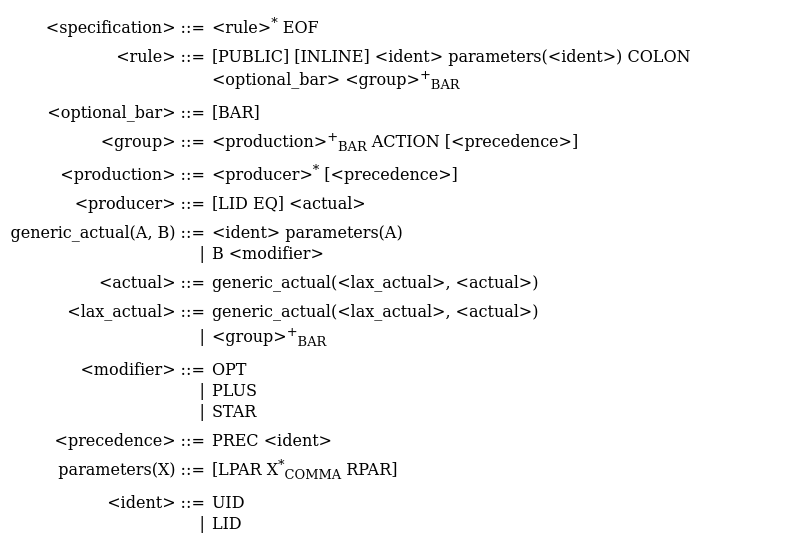
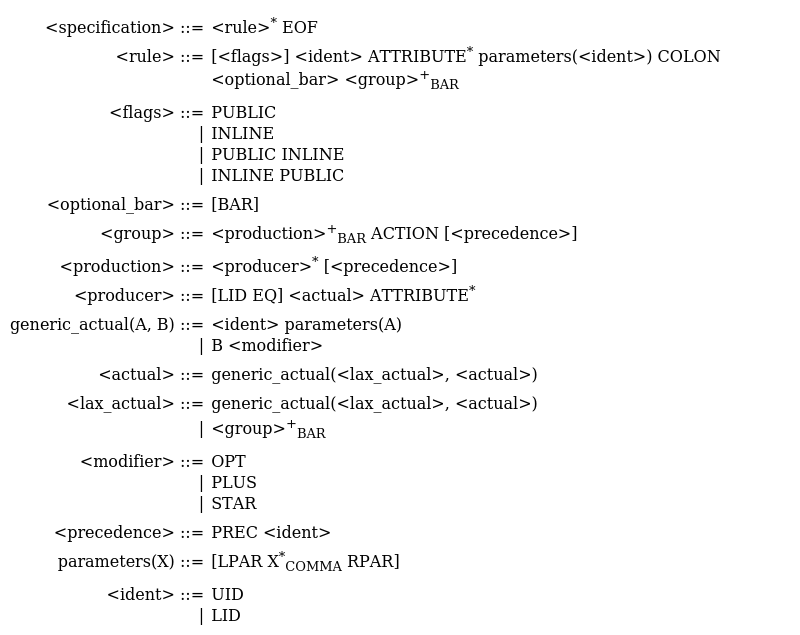
Multiple input files

Changed region(s): [[0.0, 0.0295, 0.9062, 1.0], [0.4688, 0.2357, 0.7188, 0.2947], [0.375, 0.6777, 0.4062, 0.7072]]

diff --git a/docs/code_Main.html b/docs/code_Main.html
@@ -32,16 +32,20 @@
 <code class="code"></code><table><tr><td></td><td><span class="comment">(** The main driver of the application.
 <p>
 
-    Once parsed, the grammar is scanned (<code class="code"><span class="constructor">Scan</span></code>) to get back the symbols then
+    Once parsed the grammars are concatenated into one.
+<p>
+
+    The resulting grammar is scanned (<code class="code"><span class="constructor">Scan</span></code>) to get back the symbols then
     normalized (<code class="code"><span class="constructor">Normalize</span></code>) and transformed (<code class="code"><span class="constructor">Transform</span></code>) to a simpler form.
     Finally, after an optional pass of pattern-recognition (<code class="code"><span class="constructor">Reduce</span></code>) it is
     printed (<code class="code"><span class="constructor">Printers</span></code>).  *)</span></td></tr></table><code class="code"><br>
 <br>
+<span class="keyword">open</span>&nbsp;<span class="constructor">List</span><br>
 <span class="keyword">open</span>&nbsp;<span class="constructor">Position</span><br>
 <span class="keyword">open</span>&nbsp;<span class="constructor">Format</span><br>
 <br>
-</code><table><tr><td></td><td><span class="comment">(** The input file.*)</span></td></tr></table><code class="code"><br>
-<span class="keyword">let</span>&nbsp;ifile&nbsp;=&nbsp;ref&nbsp;<span class="string">""</span><br>
+</code><table><tr><td></td><td><span class="comment">(** The input files.*)</span></td></tr></table><code class="code"><br>
+<span class="keyword">let</span>&nbsp;ifiles&nbsp;=&nbsp;ref&nbsp;[]<br>
 </code><table><tr><td></td><td><span class="comment">(** The output file. *)</span></td></tr></table><code class="code"><br>
 <span class="keyword">let</span>&nbsp;ofile&nbsp;=&nbsp;ref&nbsp;<span class="string">""</span><br>
 <br>
@@ -61,9 +65,6 @@
 <span class="keyword">let</span>&nbsp;mode&nbsp;=&nbsp;ref&nbsp;<span class="constructor">Default</span><br>
 </code><table><tr><td></td><td><span class="comment">(** Do we inline inferred patterns ? <code class="code"><span class="keyword">false</span></code> by default. *)</span></td></tr></table><code class="code"><br>
 <span class="keyword">let</span>&nbsp;inline&nbsp;=&nbsp;ref&nbsp;<span class="keyword">false</span><br>
-<br>
-</code><table><tr><td></td><td><span class="comment">(** Specify the filenames of <code class="code">ifile</code> and <code class="code">ofile</code>. *)</span></td></tr></table><code class="code"><br>
-<span class="keyword">let</span>&nbsp;set_file&nbsp;f&nbsp;s&nbsp;=&nbsp;f&nbsp;:=&nbsp;s<br>
 <br>
 </code><table><tr><td></td><td><span class="comment">(** Default common command-line options. *)</span></td></tr></table><code class="code"><br>
 <span class="keyword">let</span>&nbsp;options&nbsp;=&nbsp;ref&nbsp;(<span class="constructor">Arg</span>.align&nbsp;[<br>
@@ -98,17 +99,15 @@
 &nbsp;&nbsp;&nbsp;&nbsp;options&nbsp;:=&nbsp;<span class="constructor">Arg</span>.align&nbsp;!options<br>
 <br>
 &nbsp;&nbsp;<span class="keywordsign">|</span>&nbsp;f&nbsp;<span class="keywordsign">-&gt;</span><br>
-&nbsp;&nbsp;&nbsp;&nbsp;set_file&nbsp;ifile&nbsp;f<br>
+&nbsp;&nbsp;&nbsp;&nbsp;ifiles&nbsp;:=&nbsp;f&nbsp;::&nbsp;!ifiles<br>
 <br>
-</code><table><tr><td></td><td><span class="comment">(** @return the lexer buffer, a printer chosen from the according passed options
-    and a function to finally close the input channel.*)</span></td></tr></table><code class="code"><br>
+</code><table><tr><td></td><td><span class="comment">(** @return the lexer buffers, a printer chosen from the according passed
+    options and a function to finally close the input and output channels.*)</span></td></tr></table><code class="code"><br>
 <span class="keyword">let</span>&nbsp;get&nbsp;()&nbsp;=<br>
 &nbsp;&nbsp;<span class="constructor">Arg</span>.parse_dynamic&nbsp;options&nbsp;parse_cmd&nbsp;msg;<br>
 &nbsp;&nbsp;<span class="keyword">try</span><br>
-&nbsp;&nbsp;&nbsp;&nbsp;<span class="keyword">if</span>&nbsp;!ifile&nbsp;=&nbsp;<span class="string">""</span>&nbsp;<span class="keyword">then</span>&nbsp;(<span class="constructor">Arg</span>.usage&nbsp;!options&nbsp;msg;&nbsp;exit&nbsp;1);<br>
-&nbsp;&nbsp;&nbsp;&nbsp;<span class="keyword">let</span>&nbsp;inf&nbsp;=&nbsp;open_in&nbsp;!ifile&nbsp;<span class="keyword">in</span><br>
+&nbsp;&nbsp;&nbsp;&nbsp;<span class="keyword">if</span>&nbsp;!ifiles&nbsp;=&nbsp;[]&nbsp;<span class="keyword">then</span>&nbsp;(<span class="constructor">Arg</span>.usage&nbsp;!options&nbsp;msg;&nbsp;exit&nbsp;1);<br>
 &nbsp;&nbsp;&nbsp;&nbsp;<span class="keyword">let</span>&nbsp;outf&nbsp;=&nbsp;<span class="keyword">if</span>&nbsp;!ofile&nbsp;=&nbsp;<span class="string">""</span>&nbsp;<span class="keyword">then</span>&nbsp;stdout&nbsp;<span class="keyword">else</span>&nbsp;open_out&nbsp;!ofile&nbsp;<span class="keyword">in</span><br>
-&nbsp;&nbsp;&nbsp;&nbsp;<span class="keyword">let</span>&nbsp;lexbuf&nbsp;=&nbsp;<span class="constructor">Lexing</span>.from_channel&nbsp;inf&nbsp;<span class="keyword">in</span><br>
 &nbsp;&nbsp;&nbsp;&nbsp;<span class="keyword">let</span>&nbsp;formatter&nbsp;=&nbsp;formatter_of_out_channel&nbsp;outf&nbsp;<span class="keyword">in</span><br>
 &nbsp;&nbsp;&nbsp;&nbsp;<span class="keyword">let</span>&nbsp;p&nbsp;=&nbsp;<span class="keyword">match</span>&nbsp;!mode&nbsp;<span class="keyword">with</span><br>
 &nbsp;&nbsp;&nbsp;&nbsp;&nbsp;&nbsp;<span class="keywordsign">|</span>&nbsp;<span class="constructor">Default</span>&nbsp;<span class="keywordsign">-&gt;</span>&nbsp;(<span class="keyword">module</span>&nbsp;<span class="constructor">Printers</span>.<span class="constructor">Default</span>&nbsp;:&nbsp;<span class="constructor">GenericPrinter</span>.<span class="constructor">PRINTER</span>)<br>
@@ -119,16 +118,32 @@
 &nbsp;&nbsp;&nbsp;&nbsp;<span class="keyword">in</span><br>
 &nbsp;&nbsp;&nbsp;&nbsp;<span class="keyword">let</span>&nbsp;<span class="keyword">module</span>&nbsp;<span class="constructor">P</span>&nbsp;=&nbsp;(<span class="keyword">val</span>&nbsp;p:&nbsp;<span class="constructor">GenericPrinter</span>.<span class="constructor">PRINTER</span>)&nbsp;<span class="keyword">in</span><br>
 &nbsp;&nbsp;&nbsp;&nbsp;<span class="keyword">let</span>&nbsp;print&nbsp;=&nbsp;<span class="constructor">P</span>.print_spec&nbsp;formatter&nbsp;<span class="keyword">in</span><br>
-&nbsp;&nbsp;&nbsp;&nbsp;<span class="keyword">let</span>&nbsp;close&nbsp;()&nbsp;=&nbsp;close_in&nbsp;inf;&nbsp;close_out&nbsp;outf&nbsp;<span class="keyword">in</span><br>
-&nbsp;&nbsp;&nbsp;&nbsp;lexbuf,&nbsp;print,&nbsp;close<br>
+&nbsp;&nbsp;&nbsp;&nbsp;<span class="keyword">let</span>&nbsp;files&nbsp;=&nbsp;rev&nbsp;!ifiles&nbsp;<span class="keyword">in</span><br>
+&nbsp;&nbsp;&nbsp;&nbsp;<span class="keyword">let</span>&nbsp;infs&nbsp;=&nbsp;map&nbsp;open_in&nbsp;files&nbsp;<span class="keyword">in</span><br>
+&nbsp;&nbsp;&nbsp;&nbsp;<span class="keyword">let</span>&nbsp;lexbufs&nbsp;=&nbsp;map&nbsp;<span class="constructor">Lexing</span>.from_channel&nbsp;infs&nbsp;<span class="keyword">in</span><br>
+&nbsp;&nbsp;&nbsp;&nbsp;<span class="keyword">let</span>&nbsp;close&nbsp;()&nbsp;=&nbsp;iter&nbsp;close_in&nbsp;infs;&nbsp;close_out&nbsp;outf&nbsp;<span class="keyword">in</span><br>
+&nbsp;&nbsp;&nbsp;&nbsp;combine&nbsp;files&nbsp;lexbufs,&nbsp;print,&nbsp;close<br>
 &nbsp;&nbsp;<span class="keyword">with</span>&nbsp;<span class="constructor">Sys_error</span>&nbsp;s&nbsp;<span class="keywordsign">-&gt;</span><br>
 &nbsp;&nbsp;&nbsp;&nbsp;eprintf&nbsp;<span class="string">"System&nbsp;Error%s@."</span>&nbsp;s;<br>
 &nbsp;&nbsp;&nbsp;&nbsp;exit&nbsp;1<br>
 <br>
-<span class="keyword">let</span>&nbsp;()&nbsp;=<br>
-&nbsp;&nbsp;<span class="keyword">let</span>&nbsp;lexbuf,&nbsp;print,&nbsp;close&nbsp;=&nbsp;get&nbsp;()&nbsp;<span class="keyword">in</span><br>
+</code><table><tr><td></td><td><span class="comment">(** @return the obtained grammars per input file / lexer buffer.  *)</span></td></tr></table><code class="code"><br>
+<span class="keyword">let</span>&nbsp;parse&nbsp;(file,&nbsp;lexbuf&nbsp;<span class="keyword">as</span>&nbsp;fl)&nbsp;=<br>
 &nbsp;&nbsp;<span class="keyword">try</span><br>
-&nbsp;&nbsp;&nbsp;&nbsp;<span class="keyword">let</span>&nbsp;s&nbsp;=&nbsp;<span class="constructor">Parser</span>.specification&nbsp;<span class="constructor">Lexer</span>.lexer&nbsp;lexbuf&nbsp;<span class="keyword">in</span><br>
+&nbsp;&nbsp;&nbsp;&nbsp;<span class="constructor">Lexer</span>.init&nbsp;();<br>
+&nbsp;&nbsp;&nbsp;&nbsp;<span class="constructor">Parser</span>.specification&nbsp;<span class="constructor">Lexer</span>.lexer&nbsp;lexbuf<br>
+&nbsp;&nbsp;<span class="keyword">with</span><br>
+&nbsp;&nbsp;<span class="keywordsign">|</span>&nbsp;<span class="constructor">Lexer</span>.<span class="constructor">LexingError</span>&nbsp;s&nbsp;<span class="keywordsign">-&gt;</span><br>
+&nbsp;&nbsp;&nbsp;&nbsp;err_loc_lexbuf&nbsp;fl&nbsp;(sprintf&nbsp;<span class="string">"Lexing&nbsp;Error:&nbsp;%s"</span>&nbsp;s);<br>
+&nbsp;&nbsp;&nbsp;&nbsp;exit&nbsp;1<br>
+&nbsp;&nbsp;<span class="keywordsign">|</span>&nbsp;<span class="constructor">Parser</span>.<span class="constructor">Error</span>&nbsp;<span class="keywordsign">-&gt;</span><br>
+&nbsp;&nbsp;&nbsp;&nbsp;err_loc_lexbuf&nbsp;fl&nbsp;<span class="string">"Parsing&nbsp;Error"</span>;<br>
+&nbsp;&nbsp;&nbsp;&nbsp;exit&nbsp;1<br>
+<br>
+<span class="keyword">let</span>&nbsp;()&nbsp;=<br>
+&nbsp;&nbsp;<span class="keyword">let</span>&nbsp;lexbufs,&nbsp;print,&nbsp;close&nbsp;=&nbsp;get&nbsp;()&nbsp;<span class="keyword">in</span><br>
+&nbsp;&nbsp;<span class="keyword">try</span><br>
+&nbsp;&nbsp;&nbsp;&nbsp;<span class="keyword">let</span>&nbsp;s&nbsp;=&nbsp;map&nbsp;parse&nbsp;lexbufs&nbsp;|&gt;&nbsp;concat&nbsp;<span class="keyword">in</span><br>
 &nbsp;&nbsp;&nbsp;&nbsp;<span class="keyword">let</span>&nbsp;symbols&nbsp;=&nbsp;<span class="constructor">Scan</span>.scan&nbsp;s&nbsp;<span class="keyword">in</span><br>
 &nbsp;&nbsp;&nbsp;&nbsp;s<br>
 &nbsp;&nbsp;&nbsp;&nbsp;|&gt;&nbsp;<span class="constructor">Normalize</span>.normalize<br>
@@ -139,13 +154,5 @@
 &nbsp;&nbsp;<span class="keyword">with</span><br>
 &nbsp;&nbsp;<span class="keywordsign">|</span>&nbsp;<span class="constructor">Sys_error</span>&nbsp;s&nbsp;<span class="keywordsign">-&gt;</span><br>
 &nbsp;&nbsp;&nbsp;&nbsp;eprintf&nbsp;<span class="string">"System&nbsp;Error%s@."</span>&nbsp;s;<br>
-&nbsp;&nbsp;&nbsp;&nbsp;exit&nbsp;1<br>
-&nbsp;&nbsp;<span class="keywordsign">|</span>&nbsp;<span class="constructor">Lexer</span>.<span class="constructor">LexingError</span>&nbsp;s&nbsp;<span class="keywordsign">-&gt;</span><br>
-&nbsp;&nbsp;&nbsp;&nbsp;err_loc_lexbuf&nbsp;ifile&nbsp;lexbuf;<br>
-&nbsp;&nbsp;&nbsp;&nbsp;eprintf&nbsp;<span class="string">"Lexing&nbsp;Error:&nbsp;%s@."</span>&nbsp;s;<br>
-&nbsp;&nbsp;&nbsp;&nbsp;exit&nbsp;1<br>
-&nbsp;&nbsp;<span class="keywordsign">|</span>&nbsp;<span class="constructor">Parser</span>.<span class="constructor">Error</span>&nbsp;<span class="keywordsign">-&gt;</span><br>
-&nbsp;&nbsp;&nbsp;&nbsp;err_loc_lexbuf&nbsp;ifile&nbsp;lexbuf;<br>
-&nbsp;&nbsp;&nbsp;&nbsp;eprintf&nbsp;<span class="string">"Parsing&nbsp;Error@."</span>;<br>
 &nbsp;&nbsp;&nbsp;&nbsp;exit&nbsp;1<br>
 </code></body></html>

diff --git a/docs/Main.html b/docs/Main.html
@@ -42,15 +42,18 @@
 The main driver of the application.
 <p>
 
-    Once parsed, the grammar is scanned (<a href="Scan.html"><code class="code"><span class="constructor">Scan</span></code></a>) to get back the symbols then
+    Once parsed the grammars are concatenated into one.
+<p>
+
+    The resulting grammar is scanned (<a href="Scan.html"><code class="code"><span class="constructor">Scan</span></code></a>) to get back the symbols then
     normalized (<a href="Normalize.html"><code class="code"><span class="constructor">Normalize</span></code></a>) and transformed (<a href="Transform.html"><code class="code"><span class="constructor">Transform</span></code></a>) to a simpler form.
     Finally, after an optional pass of pattern-recognition (<a href="Reduce.html"><code class="code"><span class="constructor">Reduce</span></code></a>) it is
     printed (<a href="Printers.html"><code class="code"><span class="constructor">Printers</span></code></a>).<br>
 </div>
 <hr width="100%">
 
-<pre><span id="VALifile"><span class="keyword">val</span> <a href="code_VALMain.ifile.html">ifile</a></span> : <code class="type">string Pervasives.ref</code></pre><div class="info ">
-The input file.<br>
+<pre><span id="VALifiles"><span class="keyword">val</span> <a href="code_VALMain.ifiles.html">ifiles</a></span> : <code class="type">string list Pervasives.ref</code></pre><div class="info ">
+The input files.<br>
 </div>
 
 <pre><span id="VALofile"><span class="keyword">val</span> <a href="code_VALMain.ofile.html">ofile</a></span> : <code class="type">string Pervasives.ref</code></pre><div class="info ">
@@ -139,10 +142,6 @@ The chosen mode, default to <a href="Main.html#TYPEELTmode.Default"><code class=
 Do we inline inferred patterns ? <code class="code"><span class="keyword">false</span></code> by default.<br>
 </div>
 
-<pre><span id="VALset_file"><span class="keyword">val</span> <a href="code_VALMain.set_file.html">set_file</a></span> : <code class="type">'a Pervasives.ref -> 'a -> unit</code></pre><div class="info ">
-Specify the filenames of <a href="Main.html#VALifile"><code class="code"><span class="constructor">Main</span>.ifile</code></a> and <a href="Main.html#VALofile"><code class="code"><span class="constructor">Main</span>.ofile</code></a>.<br>
-</div>
-
 <pre><span id="VALoptions"><span class="keyword">val</span> <a href="code_VALMain.options.html">options</a></span> : <code class="type">(Arg.key * Arg.spec * Arg.doc) list Pervasives.ref</code></pre><div class="info ">
 Default common command-line options.<br>
 </div>
@@ -164,8 +163,12 @@ Function called on anonymous arguments.
     It is used to trigger the LaTeX and HTML modes and to get the input file.<br>
 </div>
 
-<pre><span id="VALget"><span class="keyword">val</span> <a href="code_VALMain.get.html">get</a></span> : <code class="type">unit -><br>       Lexing.lexbuf * (<a href="Common.Symbols.html#TYPEt">Common.Symbols.t</a> -> <a href="ExtendedAst.html#TYPEspec">ExtendedAst.spec</a> -> unit) *<br>       (unit -> unit)</code></pre><div class="info ">
-<b>Returns</b> the lexer buffer, a printer chosen from the according passed options
-    and a function to finally close the input channel.<br>
+<pre><span id="VALget"><span class="keyword">val</span> <a href="code_VALMain.get.html">get</a></span> : <code class="type">unit -><br>       (string * Lexing.lexbuf) list *<br>       (<a href="Common.Symbols.html#TYPEt">Common.Symbols.t</a> -> <a href="ExtendedAst.html#TYPEspec">ExtendedAst.spec</a> -> unit) * (unit -> unit)</code></pre><div class="info ">
+<b>Returns</b> the lexer buffers, a printer chosen from the according passed
+    options and a function to finally close the input and output channels.<br>
+</div>
+
+<pre><span id="VALparse"><span class="keyword">val</span> <a href="code_VALMain.parse.html">parse</a></span> : <code class="type">string * Lexing.lexbuf -> <a href="Ast.html#TYPEspec">Ast.spec</a></code></pre><div class="info ">
+<b>Returns</b> the obtained grammars per input file / lexer buffer.<br>
 </div>
 </body></html>

diff --git a/docs/code_VALMain.get.html b/docs/code_VALMain.get.html
@@ -32,10 +32,8 @@
 <code class="code"><span class="keyword">let</span> get () =
   <span class="constructor">Arg</span>.parse_dynamic options parse_cmd msg;
   <span class="keyword">try</span>
-    <span class="keyword">if</span> !ifile = <span class="string">""</span> <span class="keyword">then</span> (<span class="constructor">Arg</span>.usage !options msg; exit 1);
-    <span class="keyword">let</span> inf = open_in !ifile <span class="keyword">in</span>
+    <span class="keyword">if</span> !ifiles = [] <span class="keyword">then</span> (<span class="constructor">Arg</span>.usage !options msg; exit 1);
     <span class="keyword">let</span> outf = <span class="keyword">if</span> !ofile = <span class="string">""</span> <span class="keyword">then</span> stdout <span class="keyword">else</span> open_out !ofile <span class="keyword">in</span>
-    <span class="keyword">let</span> lexbuf = <span class="constructor">Lexing</span>.from_channel inf <span class="keyword">in</span>
     <span class="keyword">let</span> formatter = formatter_of_out_channel outf <span class="keyword">in</span>
     <span class="keyword">let</span> p = <span class="keyword">match</span> !mode <span class="keyword">with</span>
       <span class="keywordsign">|</span> <span class="constructor">Default</span> <span class="keywordsign">-&gt;</span> (<span class="keyword">module</span> <span class="constructor">Printers</span>.<span class="constructor">Default</span> : <span class="constructor">GenericPrinter</span>.<span class="constructor">PRINTER</span>)
@@ -46,8 +44,11 @@
     <span class="keyword">in</span>
     <span class="keyword">let</span> <span class="keyword">module</span> <span class="constructor">P</span> = (<span class="keyword">val</span> p: <span class="constructor">GenericPrinter</span>.<span class="constructor">PRINTER</span>) <span class="keyword">in</span>
     <span class="keyword">let</span> print = <span class="constructor">P</span>.print_spec formatter <span class="keyword">in</span>
-    <span class="keyword">let</span> close () = close_in inf; close_out outf <span class="keyword">in</span>
-    lexbuf, print, close
+    <span class="keyword">let</span> files = rev !ifiles <span class="keyword">in</span>
+    <span class="keyword">let</span> infs = map open_in files <span class="keyword">in</span>
+    <span class="keyword">let</span> lexbufs = map <span class="constructor">Lexing</span>.from_channel infs <span class="keyword">in</span>
+    <span class="keyword">let</span> close () = iter close_in infs; close_out outf <span class="keyword">in</span>
+    combine files lexbufs, print, close
   <span class="keyword">with</span> <span class="constructor">Sys_error</span> s <span class="keywordsign">-&gt;</span>
     eprintf <span class="string">"System Error%s@."</span> s;
     exit 1</code></body></html>

diff --git a/docs/code_Position.html b/docs/code_Position.html
@@ -32,7 +32,7 @@
 <code class="code"></code><table><tr><td></td><td><span class="comment">(** A generic module for handling locations of errors. *)</span></td></tr></table><code class="code"><br>
 <br>
 <span class="keyword">open</span>&nbsp;<span class="constructor">Lexing</span><br>
-<span class="keyword">open</span>&nbsp;<span class="constructor">Printf</span><br>
+<span class="keyword">open</span>&nbsp;<span class="constructor">Format</span><br>
 <br>
 </code><table><tr><td></td><td><span class="comment">(** The error is located between two positions in the buffer. *)</span></td></tr></table><code class="code"><br>
 <span class="keyword">type</span>&nbsp;position&nbsp;=&nbsp;{<br>
@@ -55,14 +55,14 @@
 &nbsp;&nbsp;<span class="keyword">let</span>&nbsp;start_c&nbsp;=&nbsp;start_p.pos_cnum&nbsp;-&nbsp;start_p.pos_bol&nbsp;<span class="keyword">in</span><br>
 &nbsp;&nbsp;<span class="keyword">let</span>&nbsp;end_c&nbsp;=&nbsp;end_p.pos_cnum&nbsp;-&nbsp;end_p.pos_bol&nbsp;-&nbsp;1&nbsp;<span class="keyword">in</span><br>
 &nbsp;&nbsp;<span class="keyword">if</span>&nbsp;start_c&nbsp;=&nbsp;end_c<br>
-&nbsp;&nbsp;<span class="keyword">then</span>&nbsp;eprintf&nbsp;<span class="string">"File&nbsp;\"%s\",&nbsp;line&nbsp;%d,&nbsp;character&nbsp;%d:\n"</span>&nbsp;!file&nbsp;l&nbsp;start_c<br>
-&nbsp;&nbsp;<span class="keyword">else</span>&nbsp;eprintf&nbsp;<span class="string">"File&nbsp;\"%s\",&nbsp;line&nbsp;%d,&nbsp;characters&nbsp;%d-%d:\n"</span>&nbsp;!file&nbsp;l&nbsp;start_c&nbsp;end_c<br>
+&nbsp;&nbsp;<span class="keyword">then</span>&nbsp;eprintf&nbsp;<span class="string">"File&nbsp;\"%s\",&nbsp;line&nbsp;%d,&nbsp;character&nbsp;%d:@\n%s@."</span>&nbsp;file&nbsp;l&nbsp;start_c<br>
+&nbsp;&nbsp;<span class="keyword">else</span>&nbsp;eprintf&nbsp;<span class="string">"File&nbsp;\"%s\",&nbsp;line&nbsp;%d,&nbsp;characters&nbsp;%d-%d:@\n%s@."</span>&nbsp;file&nbsp;l&nbsp;start_c&nbsp;end_c<br>
 <br>
 </code><table><tr><td></td><td><span class="comment">(** Build an error location from the lexer buffer. *)</span></td></tr></table><code class="code"><br>
 <span class="keyword">let</span>&nbsp;get_pos&nbsp;lexbuf&nbsp;=<br>
 &nbsp;&nbsp;from&nbsp;(lexeme_start_p&nbsp;lexbuf)&nbsp;(lexeme_end_p&nbsp;lexbuf)<br>
 <br>
 </code><table><tr><td></td><td><span class="comment">(** Print an error message located with the lexer buffer. *)</span></td></tr></table><code class="code"><br>
-<span class="keyword">let</span>&nbsp;err_loc_lexbuf&nbsp;file&nbsp;lexbuf&nbsp;=<br>
+<span class="keyword">let</span>&nbsp;err_loc_lexbuf&nbsp;(file,&nbsp;lexbuf)&nbsp;=<br>
 &nbsp;&nbsp;err_loc&nbsp;file&nbsp;(get_pos&nbsp;lexbuf)<br>
 </code></body></html>

diff --git a/docs/code_VALMain.parse.html b/docs/code_VALMain.parse.html
@@ -26,13 +26,17 @@
 <link title="Html" rel="Chapter" href="Html.html">
 <link title="Printers" rel="Chapter" href="Printers.html">
 <link title="Position" rel="Chapter" href="Position.html">
-<link title="Main" rel="Chapter" href="Main.html"><title>Obelisk code documentation : Position.err_loc</title>
+<link title="Main" rel="Chapter" href="Main.html"><title>Obelisk code documentation : Main.parse</title>
 </head>
 <body>
-<code class="code"><span class="keyword">let</span> err_loc file {start_p; end_p} =
-  <span class="keyword">let</span> l = start_p.pos_lnum <span class="keyword">in</span>
-  <span class="keyword">let</span> start_c = start_p.pos_cnum - start_p.pos_bol <span class="keyword">in</span>
-  <span class="keyword">let</span> end_c = end_p.pos_cnum - end_p.pos_bol - 1 <span class="keyword">in</span>
-  <span class="keyword">if</span> start_c = end_c
-  <span class="keyword">then</span> eprintf <span class="string">"File \"%s\", line %d, character %d:@\n%s@."</span> file l start_c
-  <span class="keyword">else</span> eprintf <span class="string">"File \"%s\", line %d, characters %d-%d:@\n%s@."</span> file l start_c end_c</code></body></html>
+<code class="code"><span class="keyword">let</span> parse (file, lexbuf <span class="keyword">as</span> fl) =
+  <span class="keyword">try</span>
+    <span class="constructor">Lexer</span>.init ();
+    <span class="constructor">Parser</span>.specification <span class="constructor">Lexer</span>.lexer lexbuf
+  <span class="keyword">with</span>
+  <span class="keywordsign">|</span> <span class="constructor">Lexer</span>.<span class="constructor">LexingError</span> s <span class="keywordsign">-&gt;</span>
+    err_loc_lexbuf fl (sprintf <span class="string">"Lexing Error: %s"</span> s);
+    exit 1
+  <span class="keywordsign">|</span> <span class="constructor">Parser</span>.<span class="constructor">Error</span> <span class="keywordsign">-&gt;</span>
+    err_loc_lexbuf fl <span class="string">"Parsing Error"</span>;
+    exit 1</code></body></html>

diff --git a/docs/index_values.html b/docs/index_values.html
@@ -246,9 +246,9 @@ Build an error location from the lexer buffer.
 </div>
 </td></tr>
 <tr><td align="left"><br>I</td></tr>
-<tr><td><a href="Main.html#VALifile">ifile</a> [<a href="Main.html">Main</a>]</td>
+<tr><td><a href="Main.html#VALifiles">ifiles</a> [<a href="Main.html">Main</a>]</td>
 <td><div class="info">
-The input file.
+The input files.
 </div>
 </td></tr>
 <tr><td><a href="Main.html#VALinline">inline</a> [<a href="Main.html">Main</a>]</td>
@@ -436,6 +436,10 @@ A reference to the used formatter.
 <tr><td><a href="Helper.html#VALpar">par</a> [<a href="Helper.html">Helper</a>]</td>
 <td><div class="info">
 The optionally parenthesizing function.
+</div>
+</td></tr>
+<tr><td><a href="Main.html#VALparse">parse</a> [<a href="Main.html">Main</a>]</td>
+<td><div class="info">
 </div>
 </td></tr>
 <tr><td><a href="Main.html#VALparse_cmd">parse_cmd</a> [<a href="Main.html">Main</a>]</td>
@@ -723,11 +727,6 @@ Printed at the end of each rule.
 <td><div class="info">
 <code class="code">scan&nbsp;s</code> first gets the defined symbols of <code class="code">s</code> then its terminals and
     returns the whole set.
-</div>
-</td></tr>
-<tr><td><a href="Main.html#VALset_file">set_file</a> [<a href="Main.html">Main</a>]</td>
-<td><div class="info">
-Specify the filenames of <a href="Main.html#VALifile"><code class="code"><span class="constructor">Main</span>.ifile</code></a> and <a href="Main.html#VALofile"><code class="code"><span class="constructor">Main</span>.ofile</code></a>.
 </div>
 </td></tr>
 <tr><td><a href="Main.html#VALset_latexmode">set_latexmode</a> [<a href="Main.html">Main</a>]</td>

diff --git a/docs/Position.html b/docs/Position.html
@@ -81,7 +81,7 @@ A "dummy" error location.<br>
 Build an error location from the start and end positions.<br>
 </div>
 
-<pre><span id="VALerr_loc"><span class="keyword">val</span> <a href="code_VALPosition.err_loc.html">err_loc</a></span> : <code class="type">string Pervasives.ref -> <a href="Position.html#TYPEposition">position</a> -> unit</code></pre><div class="info ">
+<pre><span id="VALerr_loc"><span class="keyword">val</span> <a href="code_VALPosition.err_loc.html">err_loc</a></span> : <code class="type">string -> <a href="Position.html#TYPEposition">position</a> -> string -> unit</code></pre><div class="info ">
 Print a located error message on the standard error output.<br>
 </div>
 
@@ -89,7 +89,7 @@ Print a located error message on the standard error output.<br>
 Build an error location from the lexer buffer.<br>
 </div>
 
-<pre><span id="VALerr_loc_lexbuf"><span class="keyword">val</span> <a href="code_VALPosition.err_loc_lexbuf.html">err_loc_lexbuf</a></span> : <code class="type">string Pervasives.ref -> Lexing.lexbuf -> unit</code></pre><div class="info ">
+<pre><span id="VALerr_loc_lexbuf"><span class="keyword">val</span> <a href="code_VALPosition.err_loc_lexbuf.html">err_loc_lexbuf</a></span> : <code class="type">string * Lexing.lexbuf -> string -> unit</code></pre><div class="info ">
 Print an error message located with the lexer buffer.<br>
 </div>
 </body></html>

diff --git a/docs/code_VALMain.ifiles.html b/docs/code_VALMain.ifiles.html
@@ -26,13 +26,7 @@
 <link title="Html" rel="Chapter" href="Html.html">
 <link title="Printers" rel="Chapter" href="Printers.html">
 <link title="Position" rel="Chapter" href="Position.html">
-<link title="Main" rel="Chapter" href="Main.html"><title>Obelisk code documentation : Position.err_loc</title>
+<link title="Main" rel="Chapter" href="Main.html"><title>Obelisk code documentation : Main.ifiles</title>
 </head>
 <body>
-<code class="code"><span class="keyword">let</span> err_loc file {start_p; end_p} =
-  <span class="keyword">let</span> l = start_p.pos_lnum <span class="keyword">in</span>
-  <span class="keyword">let</span> start_c = start_p.pos_cnum - start_p.pos_bol <span class="keyword">in</span>
-  <span class="keyword">let</span> end_c = end_p.pos_cnum - end_p.pos_bol - 1 <span class="keyword">in</span>
-  <span class="keyword">if</span> start_c = end_c
-  <span class="keyword">then</span> eprintf <span class="string">"File \"%s\", line %d, character %d:@\n%s@."</span> file l start_c
-  <span class="keyword">else</span> eprintf <span class="string">"File \"%s\", line %d, characters %d-%d:@\n%s@."</span> file l start_c end_c</code></body></html>
+<code class="code"><span class="keyword">let</span> ifiles = ref []</code></body></html>

diff --git a/docs/code_VALPosition.err_loc_lexbuf.html b/docs/code_VALPosition.err_loc_lexbuf.html
@@ -29,5 +29,5 @@
 <link title="Main" rel="Chapter" href="Main.html"><title>Obelisk code documentation : Position.err_loc_lexbuf</title>
 </head>
 <body>
-<code class="code"><span class="keyword">let</span> err_loc_lexbuf file lexbuf =
+<code class="code"><span class="keyword">let</span> err_loc_lexbuf (file, lexbuf) =
   err_loc file (get_pos lexbuf)</code></body></html>

diff --git a/docs/code_VALMain.parse_cmd.html b/docs/code_VALMain.parse_cmd.html
@@ -40,4 +40,4 @@
     options := <span class="constructor">Arg</span>.align !options
 
   <span class="keywordsign">|</span> f <span class="keywordsign">-&gt;</span>
-    set_file ifile f</code></body></html>
+    ifiles := f :: !ifiles</code></body></html>

diff --git a/README.md b/README.md
@@ -31,8 +31,10 @@ This will provide you with a **obelisk** executable which you can feed *.mly* fi
 
 ## Usage
 ```
-obelisk [latex|html] [options] <file>
+obelisk [latex|html] [options] <files>
 ```
+
+If multiple files are specified, **Obelisk** will output a concatenated result, without consistency checks, so the user is responsible for avoiding eg. name clashes between the several files.
 
 By default **Obelisk** defaults to standard output, use `-o <file>` to specify an output file.
 
@@ -44,7 +46,7 @@ By default **Obelisk** defaults to standard output, use `-o <file>` to specify a
 
 Once recognized, if the `-i` switch is specified the rules are deleted and their instances are replaced with default constructions (eg. *\_\**, *\_+*, *[\_]*). Without the `-i` flag, only the productions of the recognized rules are replaced, the total amount of rules remaining the same.
 
-For example, on these simple rules (from this [file](doc/reco.mly)):
+For example, on these simple rules (from this [file](misc/reco.mly)):
 ```
 my_option(X, Y):
   |     {}
@@ -119,7 +121,13 @@ Here are the different formats output obtained by **Obelisk** from its own [pars
 ```
 <specification> ::= <rule>* EOF
 
-<rule> ::= [PUBLIC] [INLINE] <ident> parameters(<ident>) COLON <optional_bar> <group> (BAR <group>)*
+<rule> ::= [<flags>] <ident> ATTRIBUTE* parameters(<ident>) COLON
+           <optional_bar> <group> (BAR <group>)*
+
+<flags> ::= PUBLIC
+          | INLINE
+          | PUBLIC INLINE
+          | INLINE PUBLIC
 
 <optional_bar> ::= [BAR]
 
@@ -127,7 +135,7 @@ Here are the different formats output obtained by **Obelisk** from its own [pars
 
 <production> ::= <producer>* [<precedence>]
 
-<producer> ::= [LID EQ] <actual>
+<producer> ::= [LID EQ] <actual> ATTRIBUTE*
 
 generic_actual(A, B) ::= <ident> parameters(A)
                        | B <modifier>
